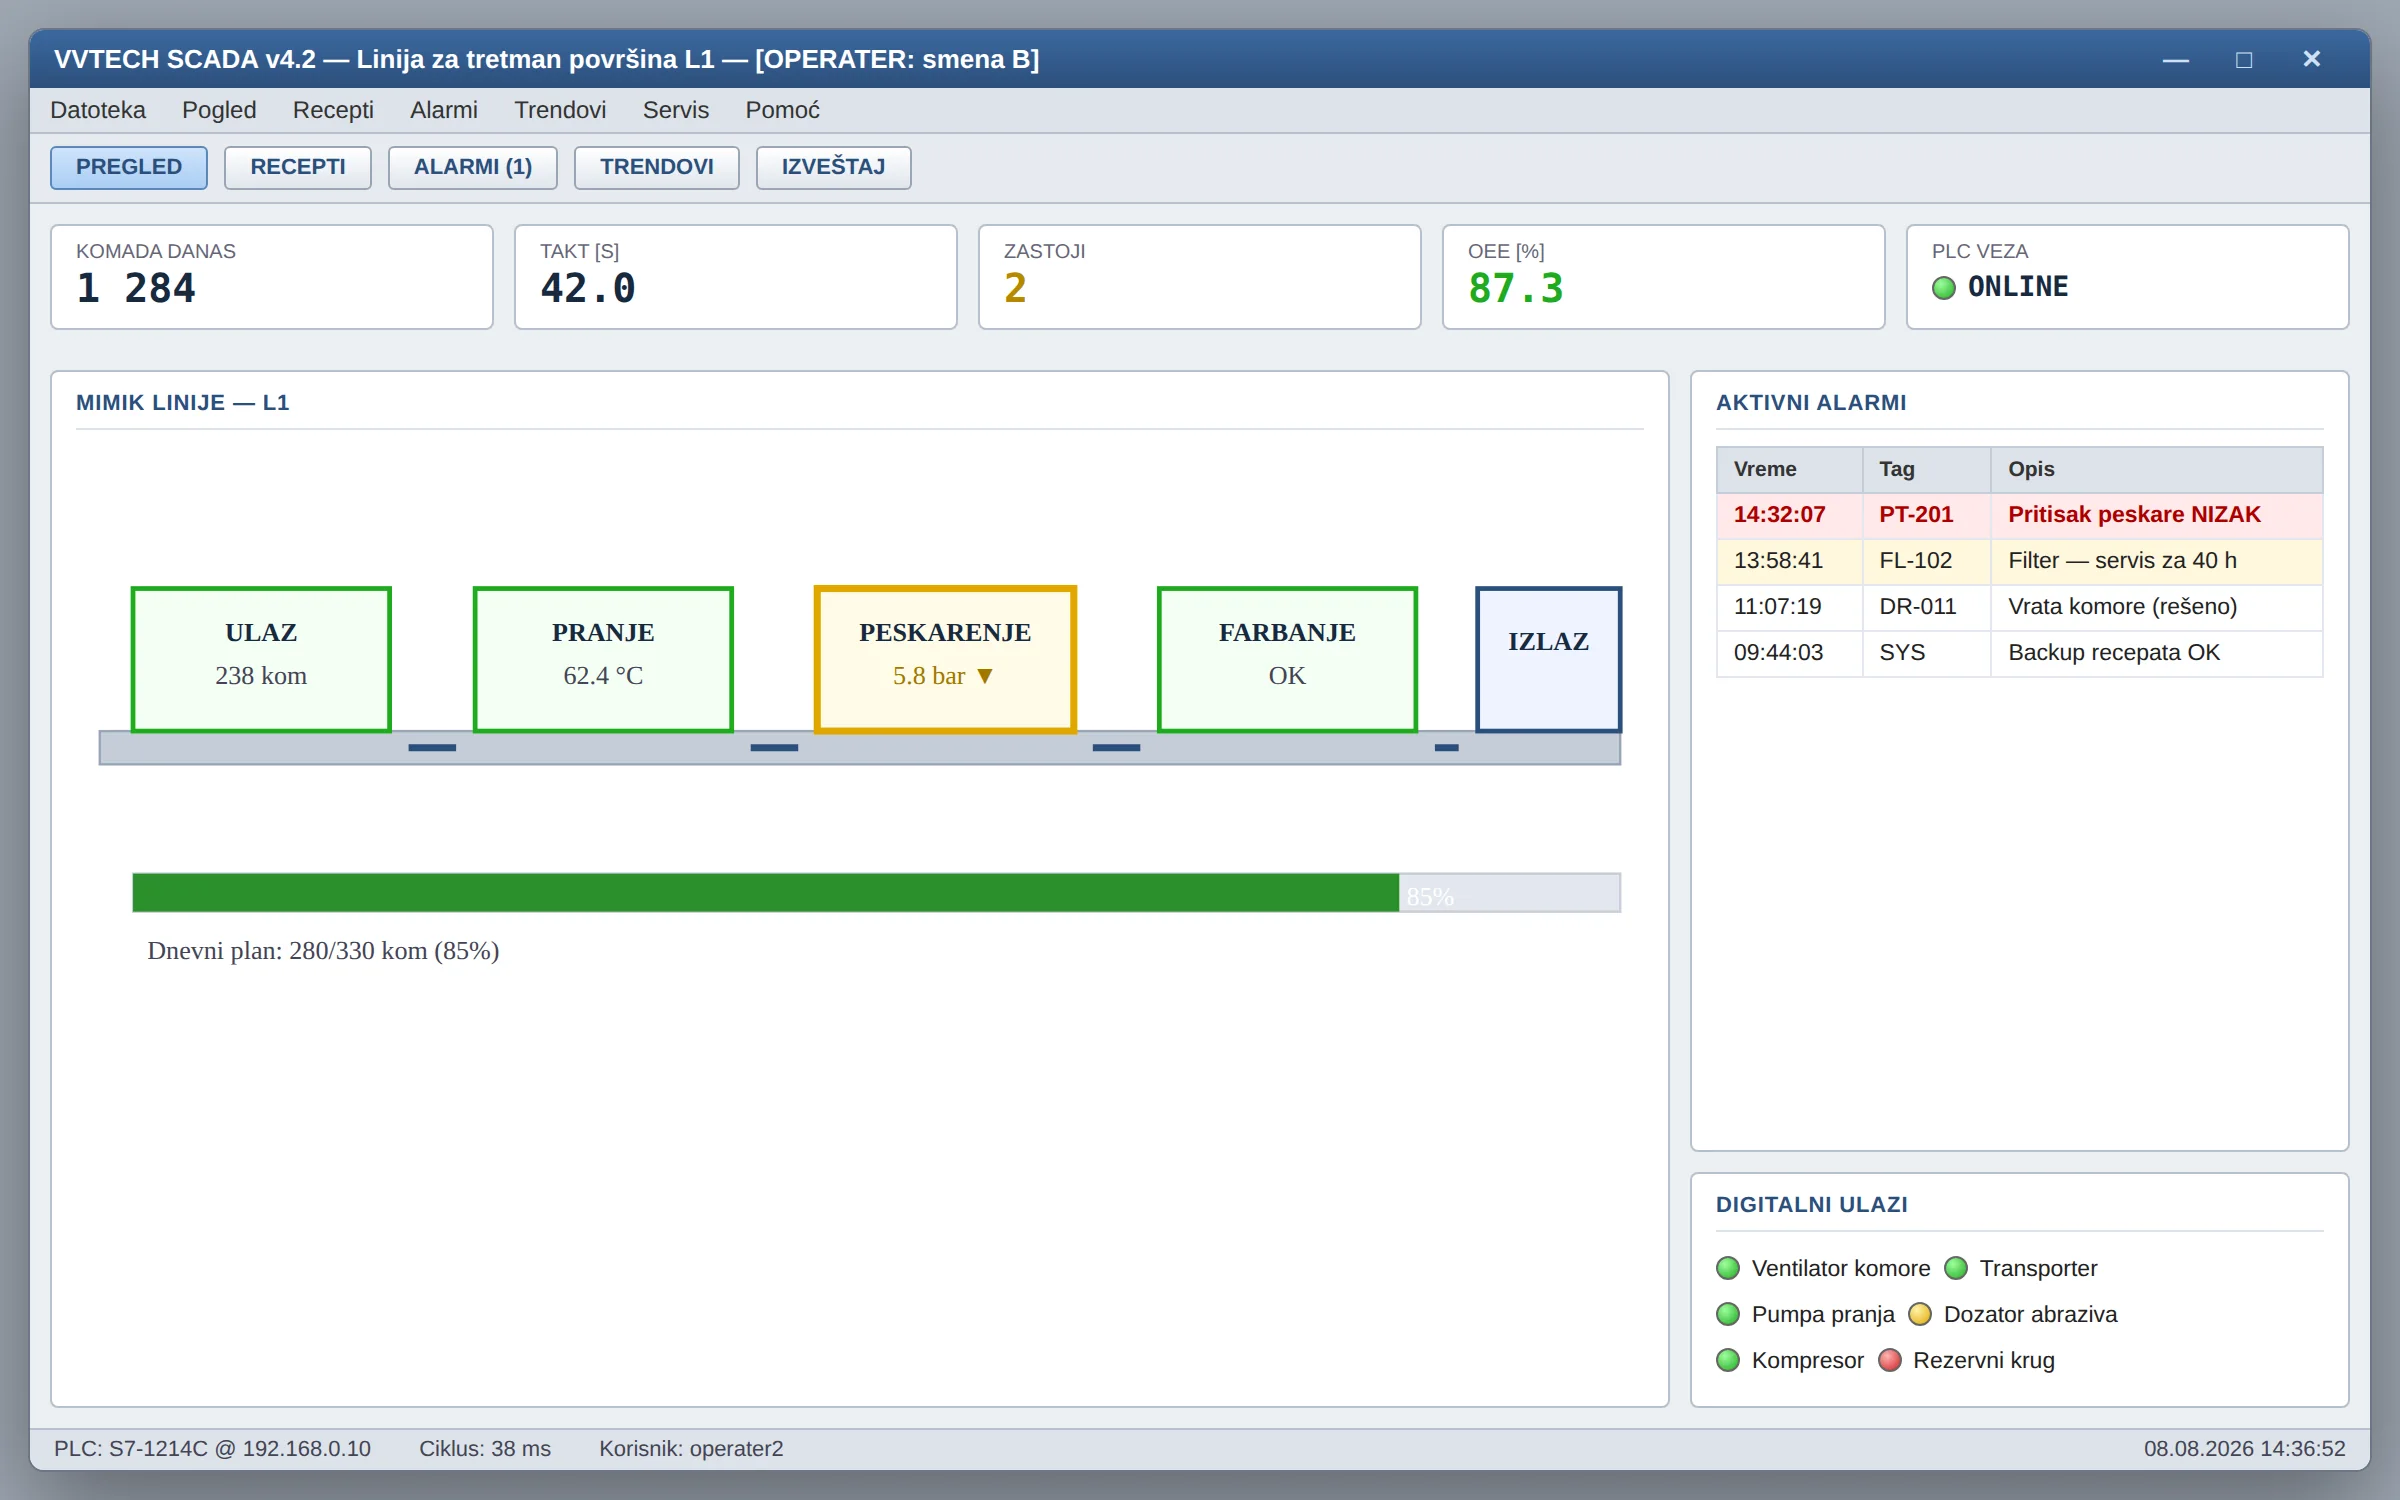
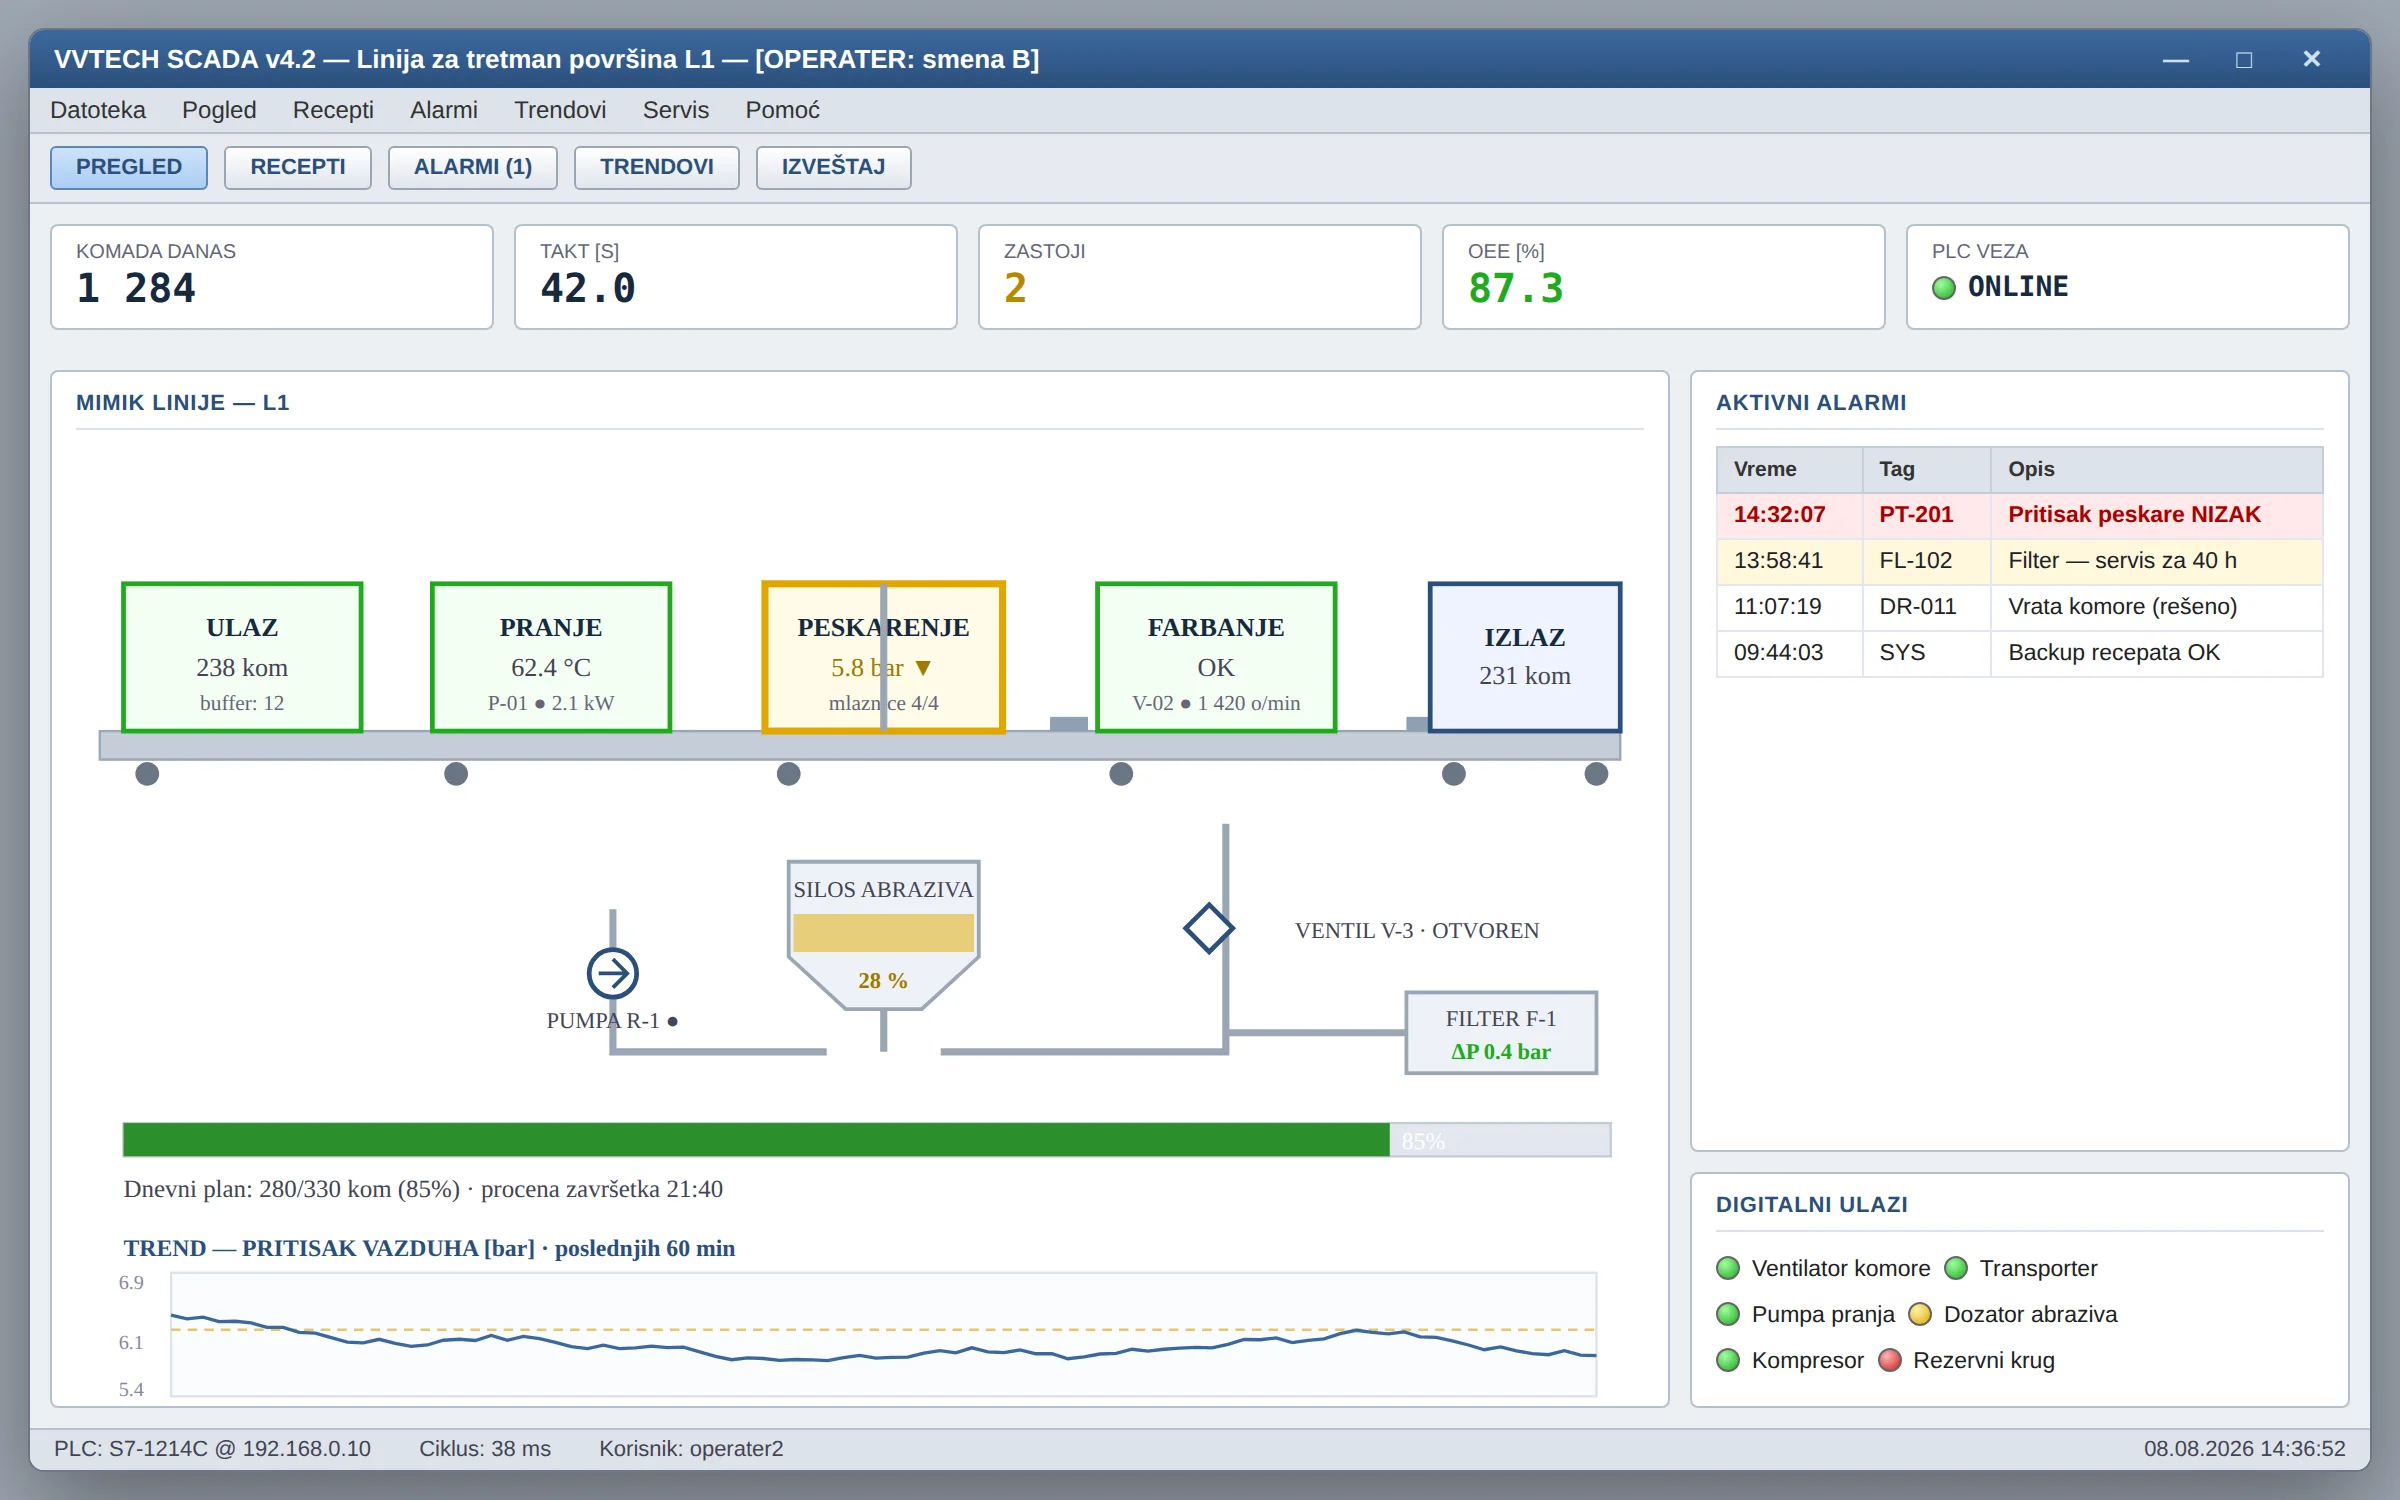
SCADA mimik kompletiran + AI ekran u Grafana stilu
- SCADA: mimik popunjen kao pravi — silos abraziva sa nivoom 28%,
  pumpa R-1, ventil V-3, filter F-1 sa dP, potrosnja pumpe pranja,
  broj mlaznica, obrtaji ventilatora, procena zavrsetka plana i
  sumoviti trend pritiska vazduha (60 min) — nema vise praznog
  prostora u panelu
- AI: umesto ljubicastih 'AI kartica' — interni alat u Grafana stilu:
  tamni gusti paneli, SUMOVITI realni signali (random walk, ne glatke
  krive), prag praznjenja 8 bar, opseg prognoze, legende sa
  min/max/avg, MAE modela, izvor podataka u statusnoj traci
- Kes-bust v=6

Claude-Session: https://claude.ai/code/session_01B3fvisijghmcPmp58SkH7r

Changed region(s): [[0.0312, 0.552, 0.6875, 0.7973], [0.0312, 0.368, 0.6875, 0.5213], [0.0625, 0.828, 0.3125, 0.8893]]

diff --git a/en/projects/index.html b/en/projects/index.html
@@ -92,7 +92,7 @@
           <ul class="tags"><li>SCADA</li><li>OEE</li><li>Alarms</li><li>Three shifts</li></ul>
         </div>
         <figure class="case-media">
-          <img src="../../assets/projects/linija.webp?v=5" alt="Surface-treatment line automation — ekran aplikacije" loading="lazy">
+          <img src="../../assets/projects/linija.webp?v=6" alt="Surface-treatment line automation — ekran aplikacije" loading="lazy">
         </figure>
       </div>
       <div class="grid grid-2">
@@ -132,7 +132,7 @@
           <ul class="tags"><li>Raspberry Pi</li><li>GSM/SMS</li><li>Solar</li><li>OTA</li><li>GPS</li></ul>
         </div>
         <figure class="case-media">
-          <img src="../../assets/projects/nadzor.webp?v=5" alt="PGT-A80 — remote monitoring of anti-hail cannons — ekran aplikacije" loading="lazy">
+          <img src="../../assets/projects/nadzor.webp?v=6" alt="PGT-A80 — remote monitoring of anti-hail cannons — ekran aplikacije" loading="lazy">
         </figure>
       </div>
       <div class="grid grid-2">
@@ -166,7 +166,7 @@
           <ul class="tags"><li>Ground station</li><li>Telemetry</li><li>Flight analysis</li></ul>
         </div>
         <figure class="case-media">
-          <img src="../../assets/projects/gnc.webp?v=5" alt="Ground station and flight telemetry — ekran aplikacije" loading="lazy">
+          <img src="../../assets/projects/gnc.webp?v=6" alt="Ground station and flight telemetry — ekran aplikacije" loading="lazy">
         </figure>
       </div>
       <div class="grid grid-2">
@@ -200,7 +200,7 @@
           <ul class="tags"><li>XZ platform</li><li>LVGL HMI</li><li>Raster programs</li><li>E-stop</li></ul>
         </div>
         <figure class="case-media">
-          <img src="../../assets/projects/hmi.webp?v=5" alt="Sandblaster SB-2000 — XZ blasting platform — ekran aplikacije" loading="lazy">
+          <img src="../../assets/projects/hmi.webp?v=6" alt="Sandblaster SB-2000 — XZ blasting platform — ekran aplikacije" loading="lazy">
         </figure>
       </div>
       <div class="grid grid-2">
@@ -233,7 +233,7 @@
           <ul class="tags"><li>Work orders</li><li>Warehouse</li><li>Deadlines</li></ul>
         </div>
         <figure class="case-media">
-          <img src="../../assets/projects/erp.webp?v=5" alt="ERP for manufacturing and work orders — ekran aplikacije" loading="lazy">
+          <img src="../../assets/projects/erp.webp?v=6" alt="ERP for manufacturing and work orders — ekran aplikacije" loading="lazy">
         </figure>
       </div>
       <div class="grid grid-2">
@@ -269,7 +269,7 @@
           <ul class="tags"><li>Node.js</li><li>WebSocket</li><li>Roles</li><li>Alarms</li></ul>
         </div>
         <figure class="case-media">
-          <img src="../../assets/projects/flota.webp?v=5" alt="Cloud platform for fleet monitoring — ekran aplikacije" loading="lazy">
+          <img src="../../assets/projects/flota.webp?v=6" alt="Cloud platform for fleet monitoring — ekran aplikacije" loading="lazy">
         </figure>
       </div>
       <div class="case reveal">
@@ -279,7 +279,7 @@
           <ul class="tags"><li>Android</li><li>Push (FCM)</li><li>Remote commands</li></ul>
         </div>
         <figure class="case-media phone">
-          <img src="../../assets/projects/app.webp?v=5" alt="Android app for on-duty operators — ekran aplikacije" loading="lazy">
+          <img src="../../assets/projects/app.webp?v=6" alt="Android app for on-duty operators — ekran aplikacije" loading="lazy">
         </figure>
       </div>
     </div>
@@ -309,7 +309,7 @@
           <ul class="tags"><li>Prediction</li><li>Telemetry</li><li>Remaining resource</li></ul>
         </div>
         <figure class="case-media">
-          <img src="../../assets/projects/ai.webp?v=5" alt="Gas-consumption prediction from telemetry — ekran aplikacije" loading="lazy">
+          <img src="../../assets/projects/ai.webp?v=6" alt="Gas-consumption prediction from telemetry — ekran aplikacije" loading="lazy">
         </figure>
       </div>
       <div class="grid grid-2">

diff --git a/projekti/index.html b/projekti/index.html
@@ -92,7 +92,7 @@
           <ul class="tags"><li>SCADA</li><li>OEE</li><li>Alarmi</li><li>Tri smene</li></ul>
         </div>
         <figure class="case-media">
-          <img src="../assets/projects/linija.webp?v=5" alt="Automatizacija linije za tretman površina — ekran aplikacije" loading="lazy">
+          <img src="../assets/projects/linija.webp?v=6" alt="Automatizacija linije za tretman površina — ekran aplikacije" loading="lazy">
         </figure>
       </div>
       <div class="grid grid-2">
@@ -132,7 +132,7 @@
           <ul class="tags"><li>Raspberry Pi</li><li>GSM/SMS</li><li>Solarno</li><li>OTA</li><li>GPS</li></ul>
         </div>
         <figure class="case-media">
-          <img src="../assets/projects/nadzor.webp?v=5" alt="PGT-A80 — daljinski nadzor protivgradnih topova — ekran aplikacije" loading="lazy">
+          <img src="../assets/projects/nadzor.webp?v=6" alt="PGT-A80 — daljinski nadzor protivgradnih topova — ekran aplikacije" loading="lazy">
         </figure>
       </div>
       <div class="grid grid-2">
@@ -166,7 +166,7 @@
           <ul class="tags"><li>Zemaljska stanica</li><li>Telemetrija</li><li>Analiza leta</li></ul>
         </div>
         <figure class="case-media">
-          <img src="../assets/projects/gnc.webp?v=5" alt="Zemaljska stanica i telemetrija leta — ekran aplikacije" loading="lazy">
+          <img src="../assets/projects/gnc.webp?v=6" alt="Zemaljska stanica i telemetrija leta — ekran aplikacije" loading="lazy">
         </figure>
       </div>
       <div class="grid grid-2">
@@ -200,7 +200,7 @@
           <ul class="tags"><li>XZ platforma</li><li>LVGL HMI</li><li>Raster programi</li><li>E-stop</li></ul>
         </div>
         <figure class="case-media">
-          <img src="../assets/projects/hmi.webp?v=5" alt="Sandblaster SB-2000 — XZ platforma za peskarenje — ekran aplikacije" loading="lazy">
+          <img src="../assets/projects/hmi.webp?v=6" alt="Sandblaster SB-2000 — XZ platforma za peskarenje — ekran aplikacije" loading="lazy">
         </figure>
       </div>
       <div class="grid grid-2">
@@ -233,7 +233,7 @@
           <ul class="tags"><li>Radni nalozi</li><li>Magacin</li><li>Rokovi</li></ul>
         </div>
         <figure class="case-media">
-          <img src="../assets/projects/erp.webp?v=5" alt="ERP za proizvodnju i radne naloge — ekran aplikacije" loading="lazy">
+          <img src="../assets/projects/erp.webp?v=6" alt="ERP za proizvodnju i radne naloge — ekran aplikacije" loading="lazy">
         </figure>
       </div>
       <div class="grid grid-2">
@@ -269,7 +269,7 @@
           <ul class="tags"><li>Node.js</li><li>WebSocket</li><li>Uloge</li><li>Alarmi</li></ul>
         </div>
         <figure class="case-media">
-          <img src="../assets/projects/flota.webp?v=5" alt="Cloud platforma za nadzor flote — ekran aplikacije" loading="lazy">
+          <img src="../assets/projects/flota.webp?v=6" alt="Cloud platforma za nadzor flote — ekran aplikacije" loading="lazy">
         </figure>
       </div>
       <div class="case reveal">
@@ -279,7 +279,7 @@
           <ul class="tags"><li>Android</li><li>Push (FCM)</li><li>Komande na daljinu</li></ul>
         </div>
         <figure class="case-media phone">
-          <img src="../assets/projects/app.webp?v=5" alt="Android aplikacija za dežurne operatere — ekran aplikacije" loading="lazy">
+          <img src="../assets/projects/app.webp?v=6" alt="Android aplikacija za dežurne operatere — ekran aplikacije" loading="lazy">
         </figure>
       </div>
     </div>
@@ -309,7 +309,7 @@
           <ul class="tags"><li>Predikcija</li><li>Telemetrija</li><li>Preostali resurs</li></ul>
         </div>
         <figure class="case-media">
-          <img src="../assets/projects/ai.webp?v=5" alt="Predikcija potrošnje gasa iz telemetrije — ekran aplikacije" loading="lazy">
+          <img src="../assets/projects/ai.webp?v=6" alt="Predikcija potrošnje gasa iz telemetrije — ekran aplikacije" loading="lazy">
         </figure>
       </div>
       <div class="grid grid-2">

diff --git a/en/index.html b/en/index.html
@@ -155,7 +155,7 @@
       <p class="section-sub reveal d-1">An example of a solution we developed from scratch — hardware, firmware and software.</p>
       <div class="grid grid-3">
         <article class="card project reveal">
-          <img class="project-shot" src="../assets/projects/nadzor.webp?v=5" alt="PGT-A80 — remote monitoring of anti-hail cannons — ekran aplikacije" loading="lazy">
+          <img class="project-shot" src="../assets/projects/nadzor.webp?v=6" alt="PGT-A80 — remote monitoring of anti-hail cannons — ekran aplikacije" loading="lazy">
           <h3>PGT-A80 — remote monitoring of anti-hail cannons</h3>
           <p>Devices scattered across hills with no mains power or internet — yet the on-duty operator sees gas pressure, battery voltage, GPS position and status of every device at any moment. Solar power, GSM/SMS telemetry, a cloud server, a mobile app with push notifications and OTA updates without a single field trip.</p>
           <ul class="tags"><li>Raspberry Pi</li><li>GSM/SMS</li><li>Solar</li><li>OTA</li></ul>

diff --git a/index.html b/index.html
@@ -176,7 +176,7 @@
       <p class="section-sub reveal d-1">Primer rešenja koje smo razvili od nule — hardver, firmver i softver.</p>
       <div class="grid grid-3">
         <article class="card project reveal">
-          <img class="project-shot" src="assets/projects/nadzor.webp?v=5" alt="PGT-A80 — daljinski nadzor protivgradnih topova — ekran aplikacije" loading="lazy">
+          <img class="project-shot" src="assets/projects/nadzor.webp?v=6" alt="PGT-A80 — daljinski nadzor protivgradnih topova — ekran aplikacije" loading="lazy">
           <h3>PGT-A80 — daljinski nadzor protivgradnih topova</h3>
           <p>Uređaji rasuti po brdima, bez struje i interneta — a dežurni operater u svakom trenutku vidi pritisak gasa, napon akumulatora, GPS poziciju i status svakog uređaja. Solarno napajanje, GSM/SMS telemetrija, cloud server, mobilna aplikacija sa push notifikacijama i OTA ažuriranje bez izlaska na teren.</p>
           <ul class="tags"><li>Raspberry Pi</li><li>GSM/SMS</li><li>Solarno</li><li>OTA</li></ul>
